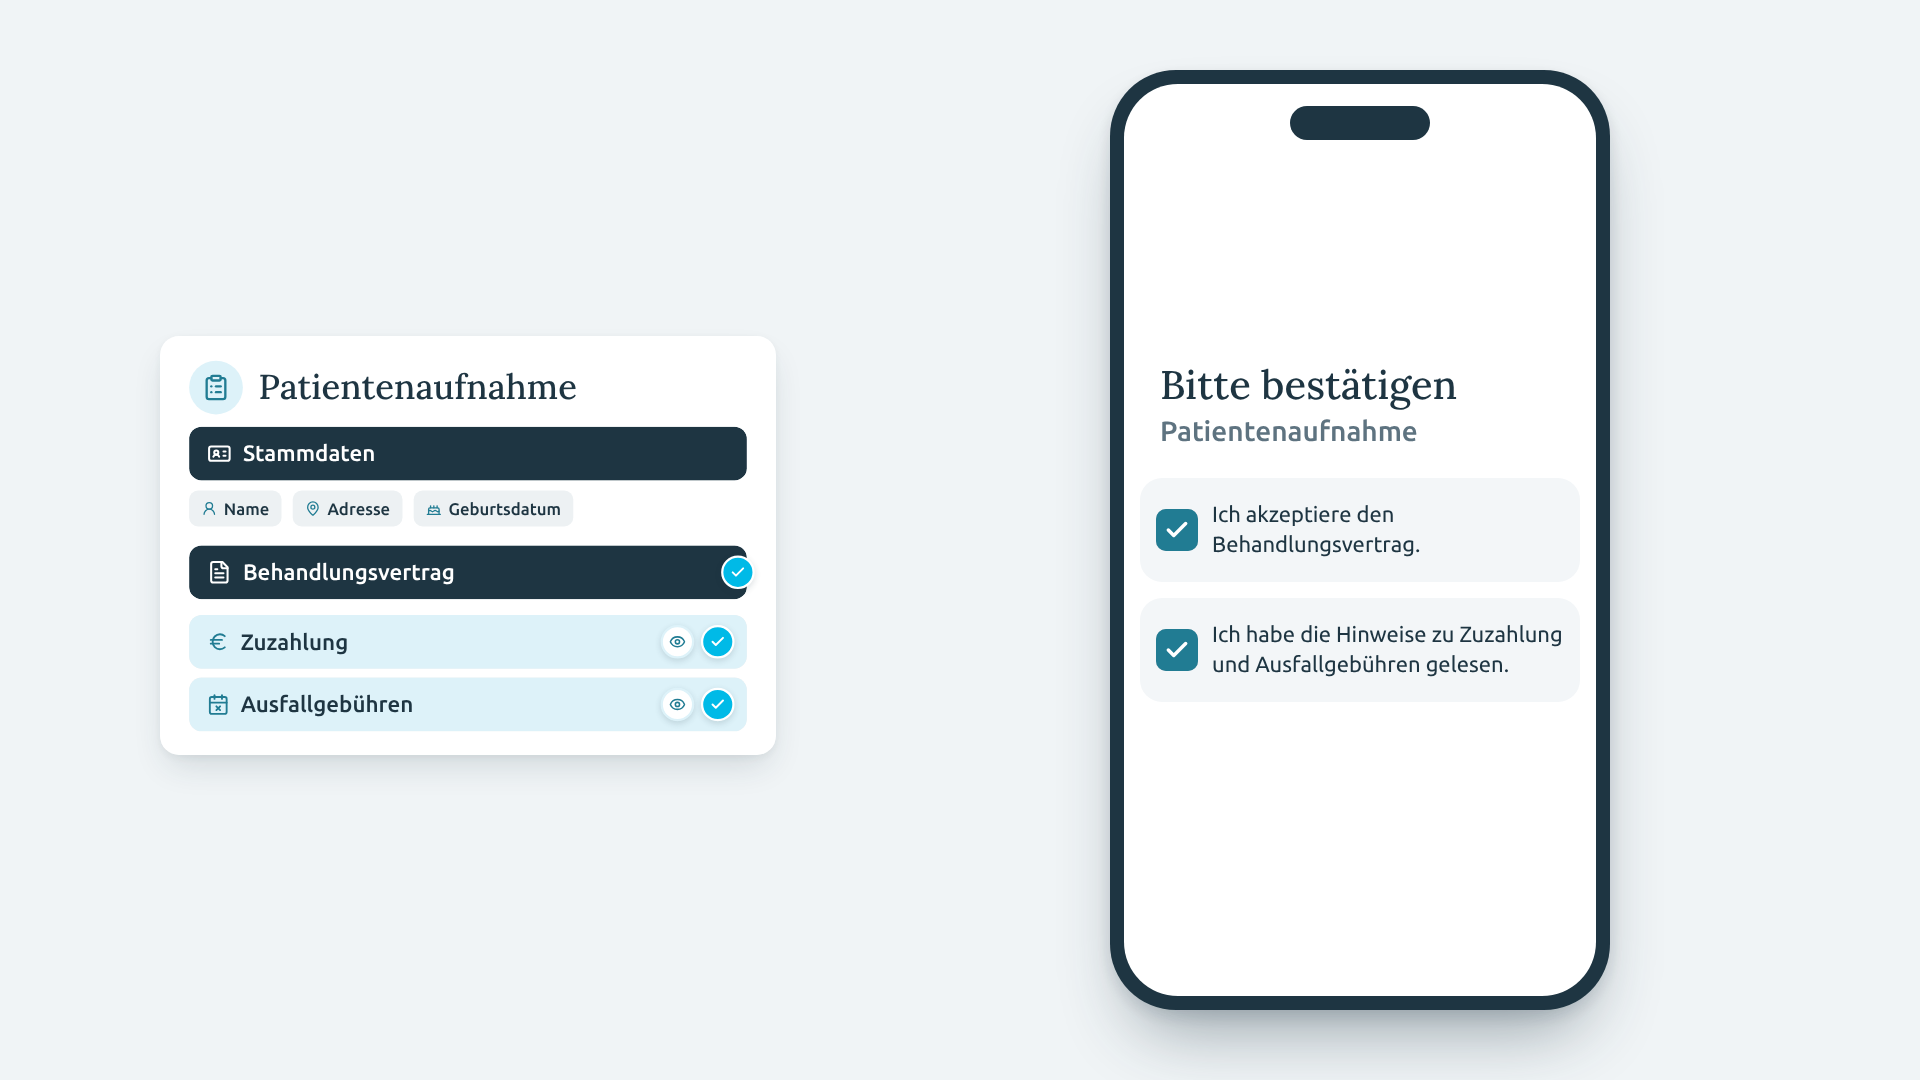
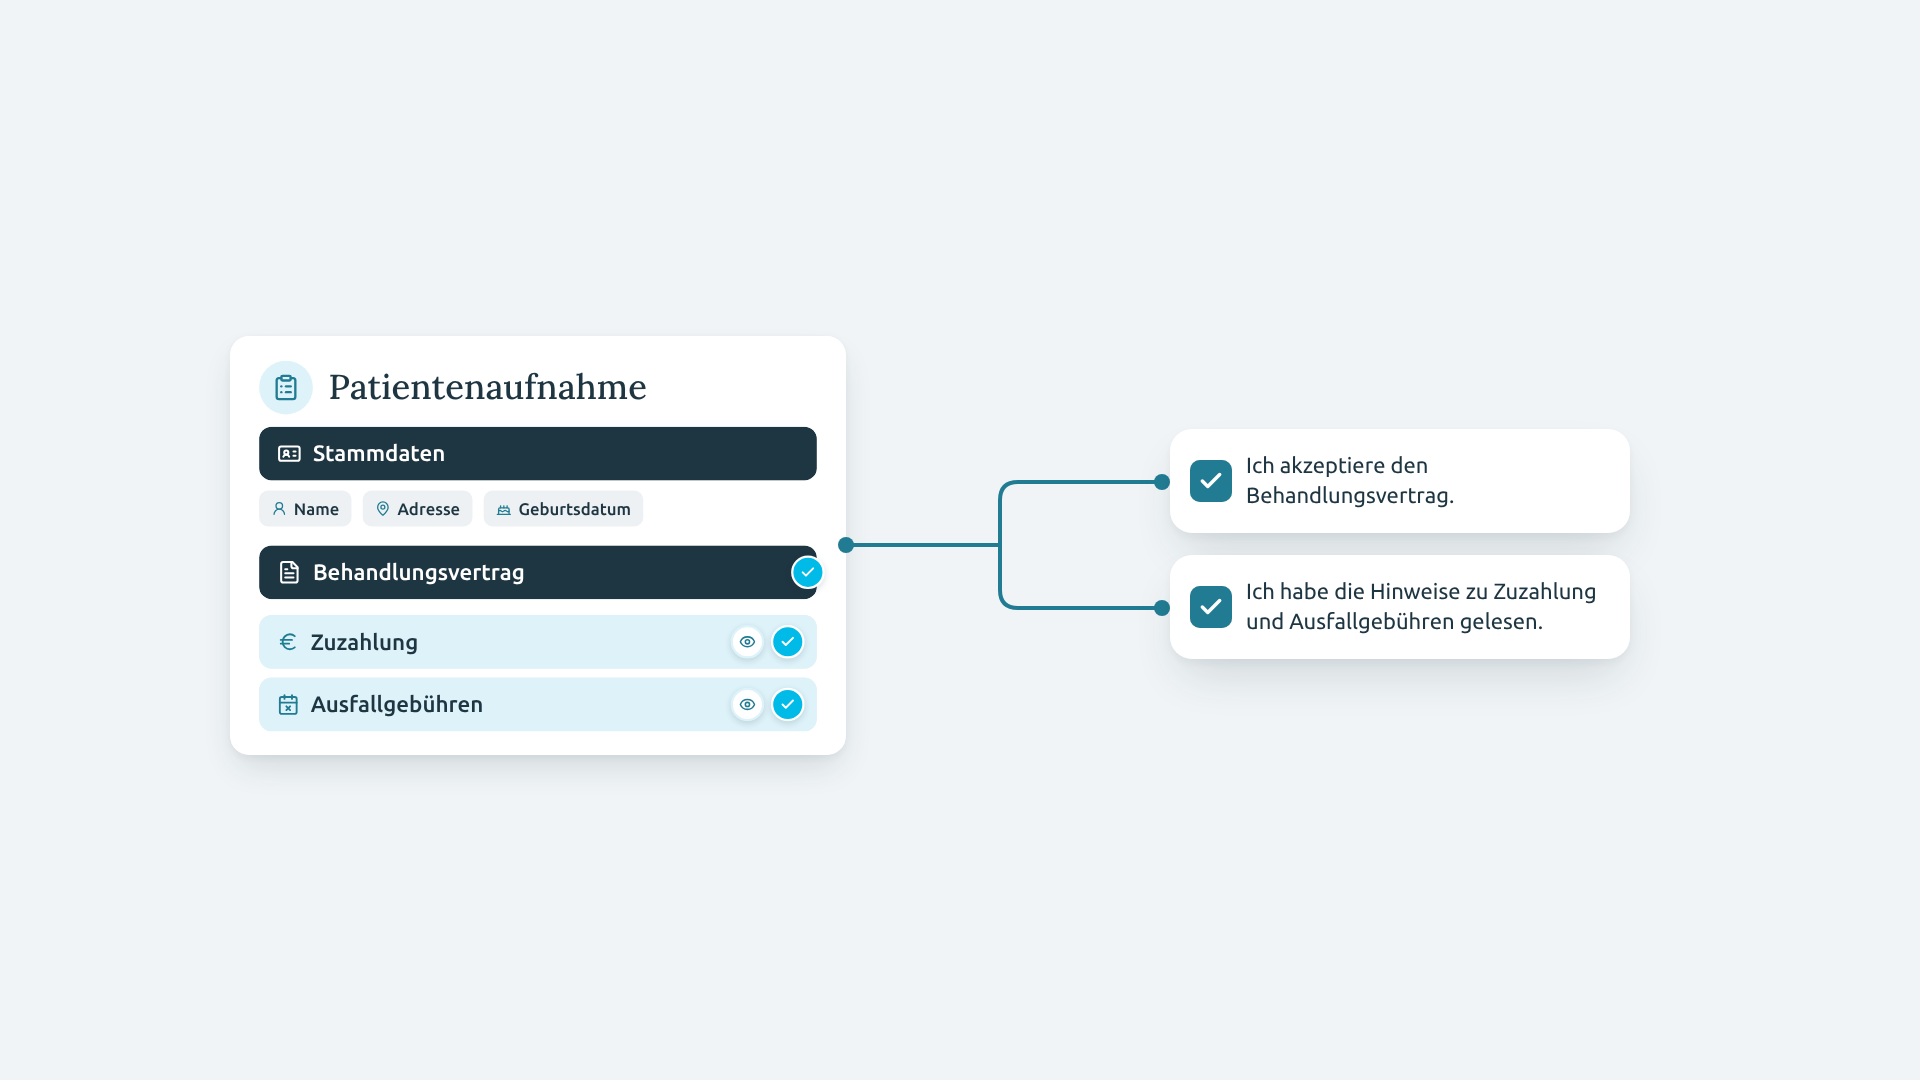
Teil 4: replace the phone with a line from the card to the checkboxes
Claude-Session: https://claude.ai/code/session_01Caa9wzM8mepkB4JMXrF43j

diff --git a/videos/patientenaufnahme-teil-4/compositions/signatur.html b/videos/patientenaufnahme-teil-4/compositions/signatur.html
@@ -1,19 +1,9 @@
 <template>
   <style>
     @font-face {
-      font-family: "Lora";
-      font-weight: 500;
-      src: url("assets/fonts/lora-500.woff2") format("woff2");
-    }
-    @font-face {
       font-family: "Ubuntu";
       font-weight: 400;
       src: url("assets/fonts/ubuntu-400.woff2") format("woff2");
-    }
-    @font-face {
-      font-family: "Ubuntu";
-      font-weight: 500;
-      src: url("assets/fonts/ubuntu-500.woff2") format("woff2");
     }
     #root {
       position: absolute;
@@ -22,66 +12,36 @@
       --c-teal: var(--teal, #217c93);
       --c-accent: var(--accent, #00bae7);
     }
-    #sg-phone {
+    /* A line from the "Patientenaufnahme" card (now small, left) branches to the two checkboxes. */
+    #sg-lines {
       position: absolute;
-      left: 1110px;
-      top: 70px;
-      width: 500px;
-      height: 940px;
-      border-radius: 66px;
-      background: var(--c-ink);
-      box-shadow:
-        0 40px 70px -24px rgba(30, 53, 66, 0.45),
-        0 6px 16px rgba(30, 53, 66, 0.12);
+      left: 0;
+      top: 0;
+      overflow: visible;
     }
-    #sg-screen {
-      position: absolute;
-      left: 14px;
-      top: 14px;
-      width: 472px;
-      height: 912px;
-      border-radius: 54px;
-      background: #fff;
-      overflow: hidden;
+    #sg-lines path {
+      fill: none;
+      stroke: var(--c-teal);
+      stroke-width: 4;
+      stroke-linecap: round;
+      stroke-linejoin: round;
     }
-    #sg-notch {
-      position: absolute;
-      left: 166px;
-      top: 22px;
-      width: 140px;
-      height: 34px;
-      border-radius: 17px;
-      background: var(--c-ink);
-    }
-    #sg-title {
-      position: absolute;
-      left: 36px;
-      top: 276px;
-      font-family: "Lora", serif;
-      font-weight: 500;
-      font-size: 40px;
-      line-height: 50px;
-      color: var(--c-ink);
-    }
-    #sg-sub {
-      position: absolute;
-      left: 36px;
-      top: 332px;
-      font-family: "Ubuntu", sans-serif;
-      font-weight: 500;
-      font-size: 28px;
-      color: var(--muted, #5e7380);
+    #sg-lines circle {
+      fill: var(--c-teal);
     }
     .sg-row {
       position: absolute;
-      left: 16px;
-      width: 440px;
+      left: 1170px;
+      width: 460px;
       border-radius: 22px;
-      background: #f3f6f8;
+      background: #fff;
+      box-shadow:
+        0 24px 48px -12px rgba(30, 53, 66, 0.16),
+        0 4px 12px rgba(30, 53, 66, 0.05);
       display: flex;
       align-items: center;
       gap: 14px;
-      padding: 22px 16px;
+      padding: 22px 20px;
       font-family: "Ubuntu", sans-serif;
       font-weight: 400;
       font-size: 22px;
@@ -116,47 +76,46 @@
     }
   </style>
 
-  <div
-    id="root"
-    data-composition-id="signatur"
-    data-width="1920"
-    data-height="1080"
-    data-composition-variables='[
-      {"id":"sg_title","type":"string","label":"Titel","default":"Bitte bestätigen"}
-    ]'
-  >
-    <div id="sg-phone">
-      <div id="sg-screen">
-        <div id="sg-notch"></div>
-        <div id="sg-title" data-var-text="sg_title">Bitte bestätigen</div>
-        <div id="sg-sub">Patientenaufnahme</div>
-        <div id="sg-row1" class="sg-row" style="top: 394px">
-          <div class="sg-box"><div id="sg-c1" class="sg-checked"><svg width="26" height="26" viewBox="0 0 24 24"><path d="M20 6 9 17l-5-5" /></svg></div></div>
-          <span>Ich akzeptiere den<br />Behandlungsvertrag.</span>
-        </div>
-        <div id="sg-row2" class="sg-row" style="top: 514px">
-          <div class="sg-box"><div id="sg-c2" class="sg-checked"><svg width="26" height="26" viewBox="0 0 24 24"><path d="M20 6 9 17l-5-5" /></svg></div></div>
-          <span>Ich habe die Hinweise zu Zuzahlung<br />und Ausfallgebühren gelesen.</span>
-        </div>
-      </div>
+  <div id="root" data-composition-id="signatur" data-width="1920" data-height="1080">
+    <svg id="sg-lines" width="1920" height="1080" viewBox="0 0 1920 1080" data-layout-ignore>
+      <path id="sg-trunk" pathLength="1" d="M 846 545 H 1000" />
+      <path id="sg-up" pathLength="1" d="M 1000 545 V 500 Q 1000 482 1018 482 H 1162" />
+      <path id="sg-down" pathLength="1" d="M 1000 545 V 590 Q 1000 608 1018 608 H 1162" />
+      <circle id="sg-dot0" cx="846" cy="545" r="8" />
+      <circle id="sg-dot1" cx="1162" cy="482" r="8" />
+      <circle id="sg-dot2" cx="1162" cy="608" r="8" />
+    </svg>
+
+    <div id="sg-row1" class="sg-row" style="top: 429px">
+      <div class="sg-box"><div id="sg-c1" class="sg-checked"><svg width="26" height="26" viewBox="0 0 24 24"><path d="M20 6 9 17l-5-5" /></svg></div></div>
+      <span>Ich akzeptiere den<br />Behandlungsvertrag.</span>
+    </div>
+    <div id="sg-row2" class="sg-row" style="top: 555px">
+      <div class="sg-box"><div id="sg-c2" class="sg-checked"><svg width="26" height="26" viewBox="0 0 24 24"><path d="M20 6 9 17l-5-5" /></svg></div></div>
+      <span>Ich habe die Hinweise zu Zuzahlung<br />und Ausfallgebühren gelesen.</span>
     </div>
   </div>
 
   <script>
     (function () {
-      // Local clock: 0 = 14.3 s in the film.
+      // Local clock: 0 = 14.3 s in the film (the card moves left until 14.9 s).
       const tl = gsap.timeline({ paused: true });
-      const blurIn = (sel, at, d = 0.35) =>
-        tl.fromTo(sel, { opacity: 0, filter: "blur(8px)" }, { opacity: 1, filter: "blur(0px)", duration: d, ease: "expo.out" }, at);
+      const draw = (sel, at, d) =>
+        tl.fromTo(sel, { strokeDasharray: 1, strokeDashoffset: 1 }, { strokeDashoffset: 0, duration: d, ease: "power2.inOut" }, at);
+      const dot = (sel, at) =>
+        tl.fromTo(sel, { opacity: 0, scale: 0.3, transformOrigin: "50% 50%" }, { opacity: 1, scale: 1, duration: 0.3, ease: "expo.out" }, at);
 
       gsap.set(["#sg-c1", "#sg-c2"], { opacity: 0, scale: 0.6 });
 
-      // The patient's phone glides in while the window steps aside.
-      tl.fromTo("#sg-phone", { opacity: 0, x: 120, filter: "blur(12px)" }, { opacity: 1, x: 0, filter: "blur(0px)", duration: 0.6, ease: "expo.out" }, 0.2);
-      blurIn("#sg-title", 0.5);
-      blurIn("#sg-sub", 0.6);
-      tl.fromTo(["#sg-row1", "#sg-row2"], { opacity: 0, y: 16 }, { opacity: 1, y: 0, duration: 0.45, stagger: 0.12, ease: "expo.out" }, 0.72);
-
+      // "Lass Patienten alles rechtssicher und digital signieren" (14.48 / 16.72):
+      // the line leaves the card and branches to the two checkboxes.
+      dot("#sg-dot0", 0.55);
+      draw("#sg-trunk", 0.6, 0.3);
+      draw("#sg-up", 0.88, 0.42);
+      draw("#sg-down", 0.88, 0.42);
+      dot("#sg-dot1", 1.25);
+      dot("#sg-dot2", 1.25);
+      tl.fromTo(["#sg-row1", "#sg-row2"], { opacity: 0, x: 30, filter: "blur(8px)" }, { opacity: 1, x: 0, filter: "blur(0px)", duration: 0.5, stagger: 0.12, ease: "expo.out" }, 1.25);
 
       // "Ganz einfach per Checkbox" (17.92 / 18.8): both boxes get ticked.
       tl.to("#sg-c1", { opacity: 1, scale: 1, duration: 0.3, ease: "expo.out" }, 3.3);

diff --git a/videos/patientenaufnahme-teil-4/boards/storyboard.html b/videos/patientenaufnahme-teil-4/boards/storyboard.html
@@ -170,14 +170,14 @@
         </div>
       </div>
 
-      <section class="act">Akt 2: Die Sicht der Patientinnen und Patienten</section>
+      <section class="act">Akt 2: Signieren per Checkbox</section>
       <div class="grid">
         <div class="frame">
           <img src="stills/frame-04-at-19.2s.png" alt="" />
           <div class="body">
             <div class="title">05: Digital signieren per Checkbox</div>
             <div class="time">14,3 bis 19,4 s</div>
-            <p class="words">Die Karte rückt verkleinert nach links, rechts gleitet das Smartphone herein: die Sicht der Patientin bzw. des Patienten. Beide Checkboxen werden angehakt (Texte in je zwei Zeilen). Kein Button.</p>
+            <p class="words">Die Karte rückt verkleinert nach links, eine Petrol-Linie führt von ihr zu zwei Checkboxen rechts (ohne Smartphone, ohne Überschrift). Beide werden angehakt, die Texte stehen in je zwei Zeilen.</p>
             <p class="vo">„Lass Patienten alles rechtssicher und digital signieren. Ganz einfach per Checkbox.“</p>
           </div>
         </div>

diff --git a/videos/patientenaufnahme-teil-4/compositions/formular.html b/videos/patientenaufnahme-teil-4/compositions/formular.html
@@ -294,8 +294,8 @@
       pop("#af-note1 .seen, #af-note2 .seen", 12.6, 0.1);
       pop("#af-note1 .accepted, #af-note2 .accepted", 13.4, 0.1);
 
-      // 14.3: the card steps aside to the left for the patient's phone.
-      tl.to("#af-card", { x: -250, y: 170, scale: 0.56, transformOrigin: "0% 0%", duration: 0.6, ease: "power3.inOut" }, 14.3);
+      // 14.3: the card steps aside to the left; a line leads from it to the two checkboxes.
+      tl.to("#af-card", { x: -180, y: 170, scale: 0.56, transformOrigin: "0% 0%", duration: 0.6, ease: "power3.inOut" }, 14.3);
 
       window.__timelines["formular"] = tl;
     })();

diff --git a/videos/patientenaufnahme-teil-4/SPEC.md b/videos/patientenaufnahme-teil-4/SPEC.md
@@ -13,16 +13,16 @@ LOOK:    wie Teil 1, Teil 7 und `finales_video.mp4`: Grund #F0F4F6 · Karten #FF
          Karten-Sprache aus Teil 1 (Titel, Navy-Balken, die sich füllen, hellblaue Hinweis-Balken, Augen- und Haken-Abzeichen).
 OBJECTS: Karte „Patientenaufnahme“: Balken „Stammdaten“ (Name · Adresse · Geburtsdatum darunter) · Balken
          „Behandlungsvertrag“ mit Haken · Hinweis-Balken „Zuzahlung“ / „Ausfallgebühren“ mit Auge (gesehen) und Haken
-         (akzeptiert) · Smartphone (Patientensicht) mit zwei Checkboxen, ohne Button
+         (akzeptiert) · Petrol-Linie mit Punkten (wie im finalen Video) zu zwei Checkbox-Karten
 MOTION:  wie Teil 7: Ankunft expo.out 0,4–0,55 s mit Blur → 0 · Abgang power2.in 0,2 s · Upload linear ·
          Balken-Füllung clip-path power3.out · Abzeichen 0,4 s expo.out · ein Bild, das sich aufbaut (keine Schnitte) · Übergang zur Patientensicht:
-         Fenster schrumpft nach links (0,6 s power3.inOut), Smartphone gleitet rechts herein.
+         Karte rückt nach links (0,6 s power3.inOut), die Linie zeichnet sich (0,3 + 0,42 s), dann landen die Checkboxen.
 SHOTS:
   0,0–3,7    Karte „Patientenaufnahme“, Balken „Stammdaten“ (0,45): Name (1,52) · Adresse (2,0) · Geburtsdatum (2,72).
   3,7–6,3    Balken „Behandlungsvertrag“ füllt sich wie ein Upload (4,4), Haken (5,3).
   6,3–10,6   Hinweis-Balken: „Zuzahlung“ (8,88) · „Ausfallgebühren“ (9,76).
   10,6–14,3  Augen-Abzeichen (12,64 „gesehen“) · Haken-Abzeichen (13,44 „akzeptiert“).
-  14,3–19,43 Fenster schrumpft nach links, rechts das Smartphone: Checkboxen werden
+  14,3–19,43 Karte rückt nach links, Linie verzweigt zu zwei Checkboxen (kein Smartphone, Wunsch); sie werden
              angehakt (17,6 / 18,3); kein Button (Wunsch). Checkbox-Texte Ubuntu 400, 22 px, je zwei Zeilen, mittig zur Checkbox; kein „Rechtssicher & digital“ (Wunsch).
 BANNED:  dunkler Grund, Glow, Partikel, Glas, Verläufe außer dem Button, Klick-Ringe, schwebende Loops,
          Logo in der Ecke, erfundene Kennzahlen oder Daten.

diff --git a/videos/patientenaufnahme-teil-4/REVIEW.md b/videos/patientenaufnahme-teil-4/REVIEW.md
@@ -7,15 +7,16 @@
 - Nach dem ersten Render (Wunsch): Akt 1 deutlich abstrakter, ohne Fenster, Logo, Dateinamen und Schalter, in der
   Karten-Sprache aus Teil 1; „Gesehen“ als Augen-, „Akzeptiert“ als Haken-Abzeichen. Auf dem Smartphone kein Button mehr,
   die Checkboxen sitzen mittig zum Text. Danach (Wunsch): „Rechtssicher & digital“ entfernt, beide Sätze in
-  festen zwei Zeilen (22 px), damit keine Lücke bleibt.
+  festen zwei Zeilen (22 px), damit keine Lücke bleibt. Zuletzt (Wunsch): kein Smartphone und keine Überschrift mehr,
+  stattdessen führt eine Petrol-Linie von der Karte zu den zwei Checkboxen.
 - Komplett Vollbild wie Teil 7, Benaja nur zu hören (aus Teil 7 übernommen, im Storyboard als Annahme markiert).
-- Ein Bild, das sich aufbaut: keine Schnitte; zum Schluss rückt das Fenster nach links und das Smartphone kommt dazu.
+- Ein Bild, das sich aufbaut: keine Schnitte; zum Schluss rückt die Karte nach links und eine Linie führt zu den Checkboxen.
 - Feldnamen, Dateiname, Hinweise und Checkbox-Texte sind Beispielinhalte.
 
 ## Gemessen vs. nur angesehen
 
 - `check`: 0 Fehler.
-- Angesehen: 24 Bilder über den ganzen Teil und 9 Bilder über die Smartphone-Sequenz.
+- Angesehen: 24 Bilder über den ganzen Teil, dazu die Checkbox-Sequenz (15,2 · 16 · 19,2 s).
 - Ton: nur der O-Ton, unverändert. Nicht gehört, Pegel gemessen.
 
 ## Schwächste Stelle
@@ -24,5 +25,5 @@
 
 ## Bewusst behaltene Warnungen
 
-- `text_below_floor`: das verkleinerte Fenster neben dem Smartphone (nur Kontext) und die Checkbox-Texte mit 22 px
+- `text_below_floor`: die verkleinerte Karte am Ende (nur Kontext) und die Checkbox-Texte mit 22 px
   (ausdrücklicher Wunsch: kleiner, nicht fett; jetzt 22 px für zwei Zeilen).

diff --git a/videos/patientenaufnahme-teil-4/STORYBOARD.md b/videos/patientenaufnahme-teil-4/STORYBOARD.md
@@ -56,14 +56,14 @@ audience: Physiotherapie-Praxen
 
 ## Frame 5: Digital signieren per Checkbox (14.3-19.43s)
 
-- act: Akt 2: Die Sicht der Patientinnen und Patienten
+- act: Akt 2: Signieren per Checkbox
 - status: animated
 - src: compositions/signatur.html
 - poster: 19.2
-- transition_in: carry (Fenster schrumpft nach links, Smartphone kommt rechts)
-- scene: Smartphone: „Bitte bestätigen“, zwei Checkboxen (kleine, normale Schrift, mittig zum Text) werden angehakt. Kein Button.
+- transition_in: carry (Karte rückt nach links, eine Linie führt zu den Checkboxen)
+- scene: Linie von der Karte zu zwei Checkbox-Karten rechts (kleine, normale Schrift, je zwei Zeilen); beide werden angehakt. Kein Smartphone, kein Button.
 - voiceover: "Lass Patienten alles rechtssicher und digital signieren. Ganz einfach per Checkbox."
-- reads: Smartphone und Titel (14.5-17.5s); Checkboxen (17.6-19.43s)
+- reads: Linie und Checkboxen (14.85-17.5s); Checkboxen (17.6-19.43s)
 - sound: nur O-Ton
 
 Annahme: wie Teil 7 komplett Vollbild, Benaja nur zu hören. Feldnamen, Dateiname und Checkbox-Texte sind Beispielinhalte.

diff --git a/videos/patientenaufnahme-teil-4/README.md b/videos/patientenaufnahme-teil-4/README.md
@@ -20,7 +20,7 @@ Benaja ist nur zu hören. Ohne Musik und Soundeffekte, nur der O-Ton.
 | 3,7–6,3 s | „Füge deinen Behandlungsvertrag ein …“ | Balken „Behandlungsvertrag“ füllt sich, Haken. |
 | 6,3–10,6 s | „… ergänze wichtige Hinweise, zum Beispiel zur gesetzlichen Zuzahlung oder Ausfallgebühren.“ | Hinweis-Balken „Zuzahlung“ und „Ausfallgebühren“. |
 | 10,6–14,3 s | „Stelle dabei sicher, dass sie auch wirklich gesehen und akzeptiert werden.“ | Augen-Symbol (gesehen), dann Haken (akzeptiert) an beiden Hinweisen. |
-| 14,3–19,43 s | „Lass Patienten alles rechtssicher und digital signieren. Ganz einfach per Checkbox.“ | Karte rückt nach links, Smartphone: beide Checkboxen werden angehakt (kein Button). |
+| 14,3–19,43 s | „Lass Patienten alles rechtssicher und digital signieren. Ganz einfach per Checkbox.“ | Karte rückt nach links, eine Linie führt zu zwei Checkboxen, beide werden angehakt. |
 
 ## Bearbeiten
 
